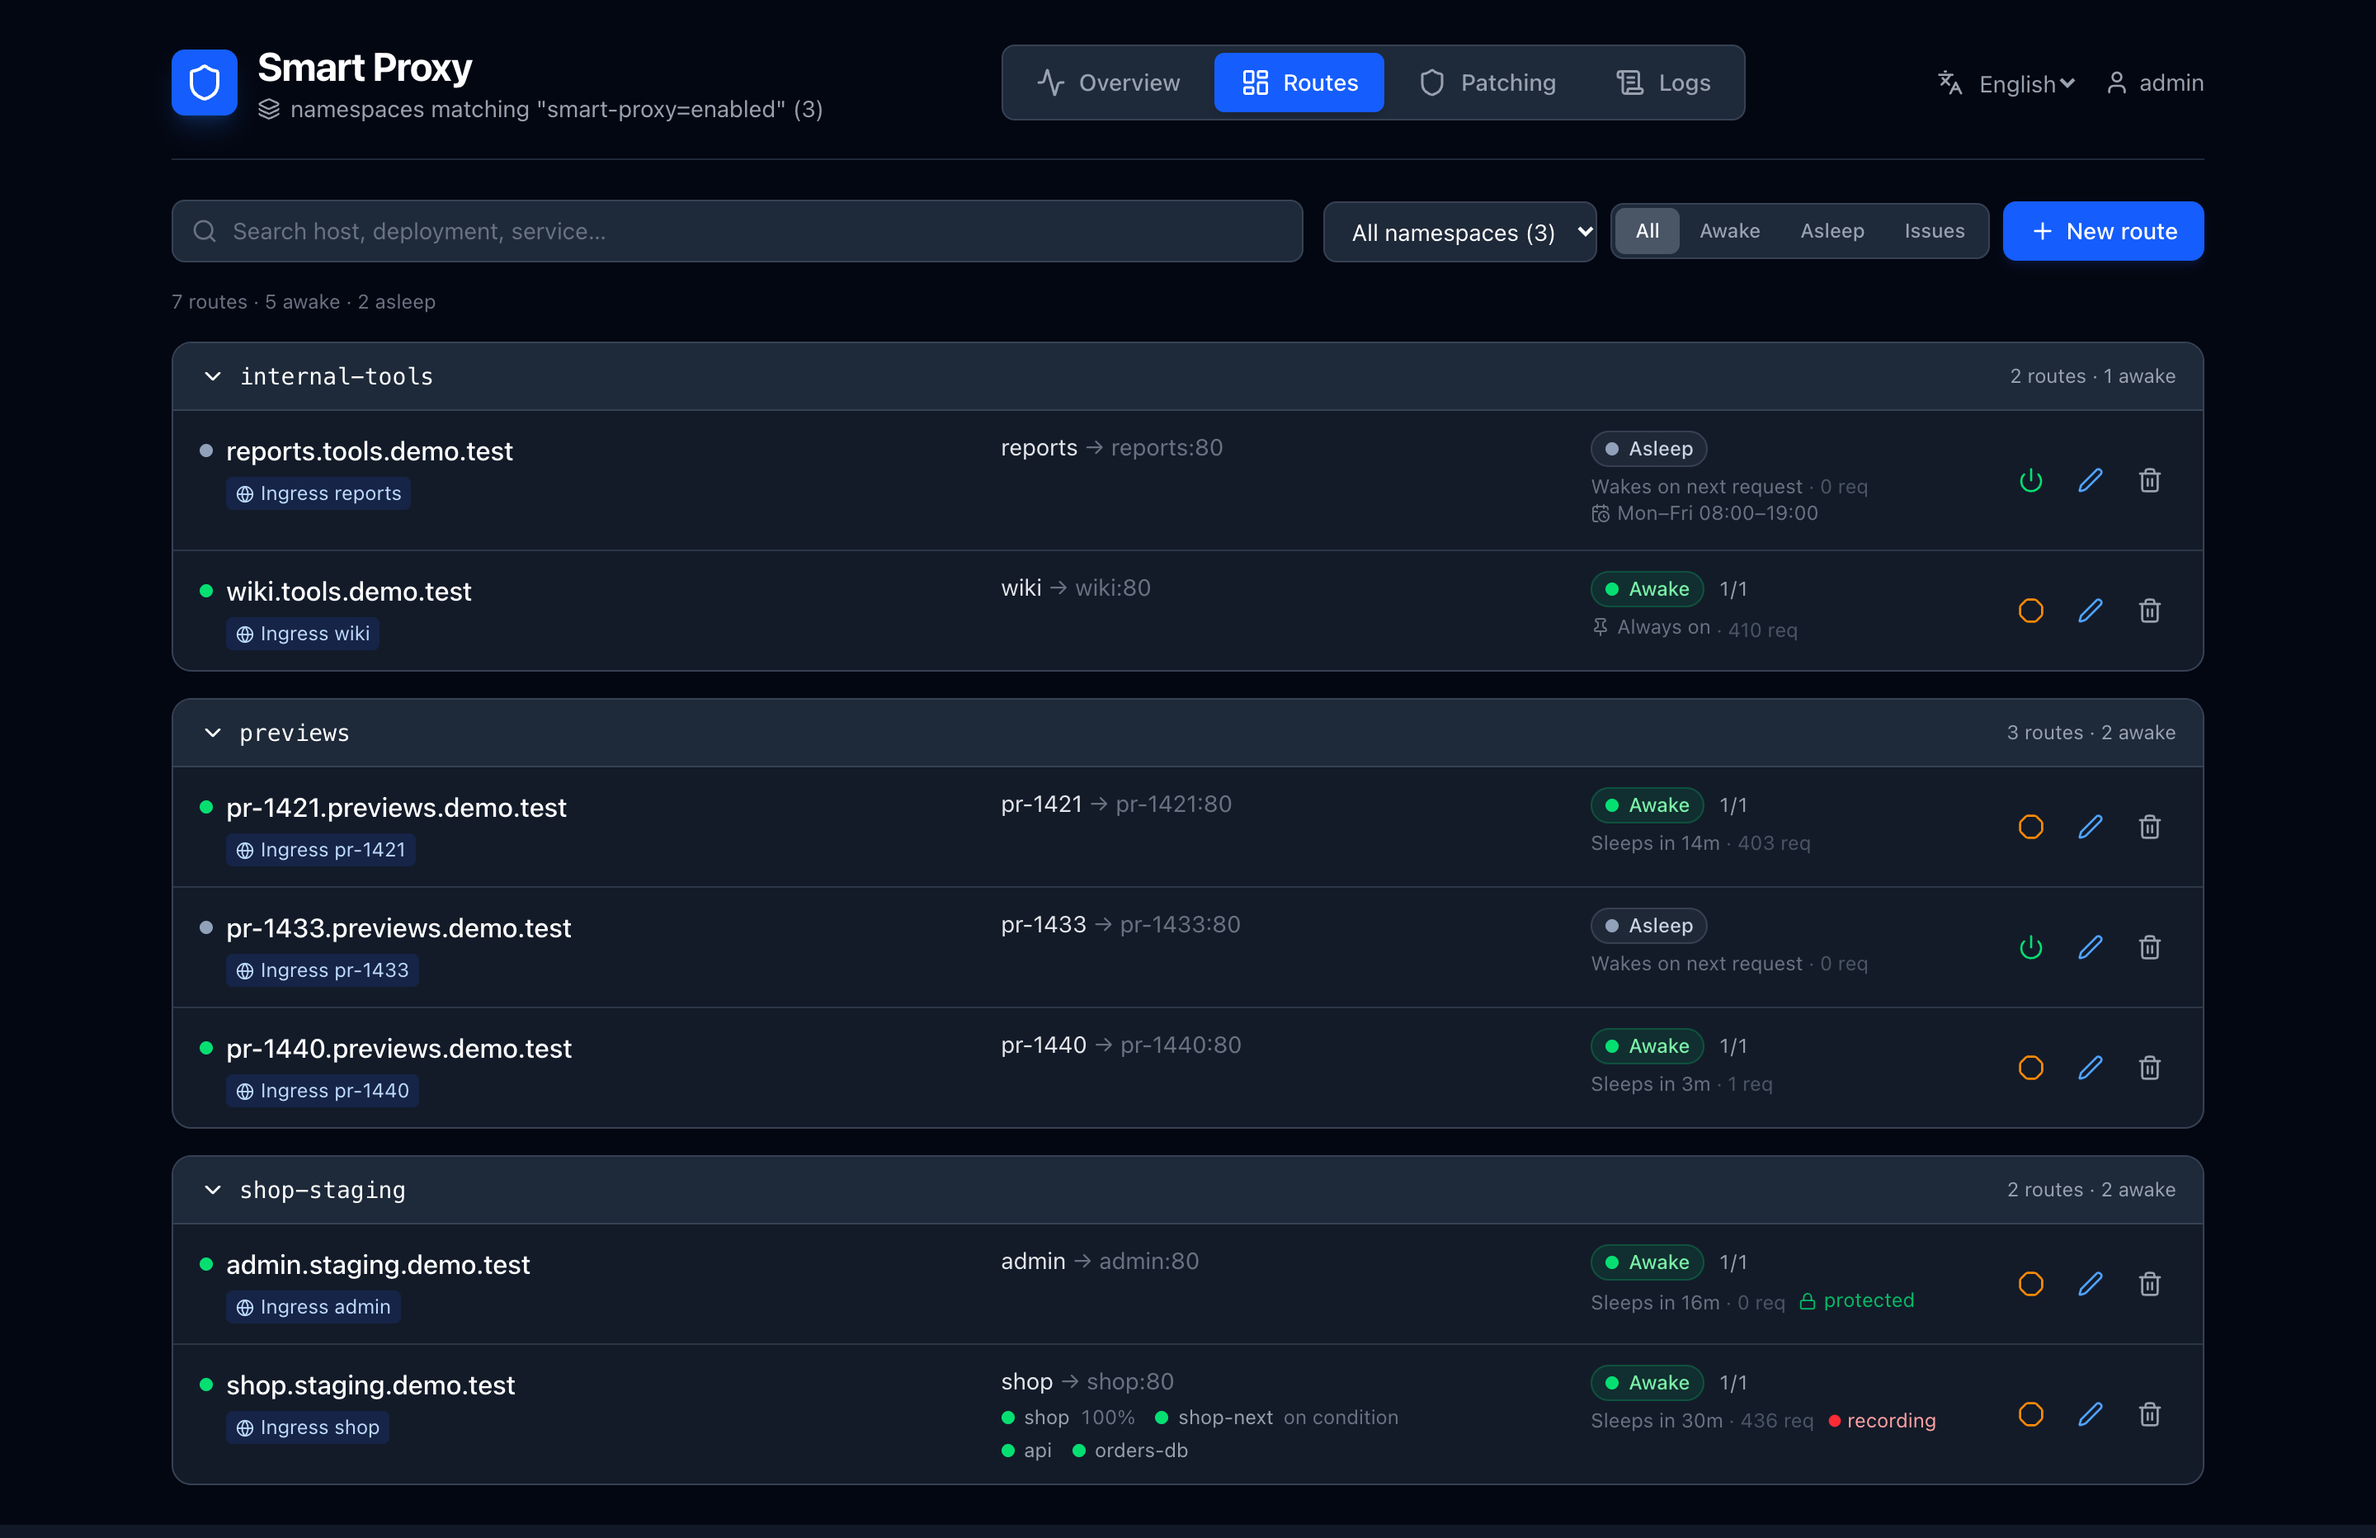
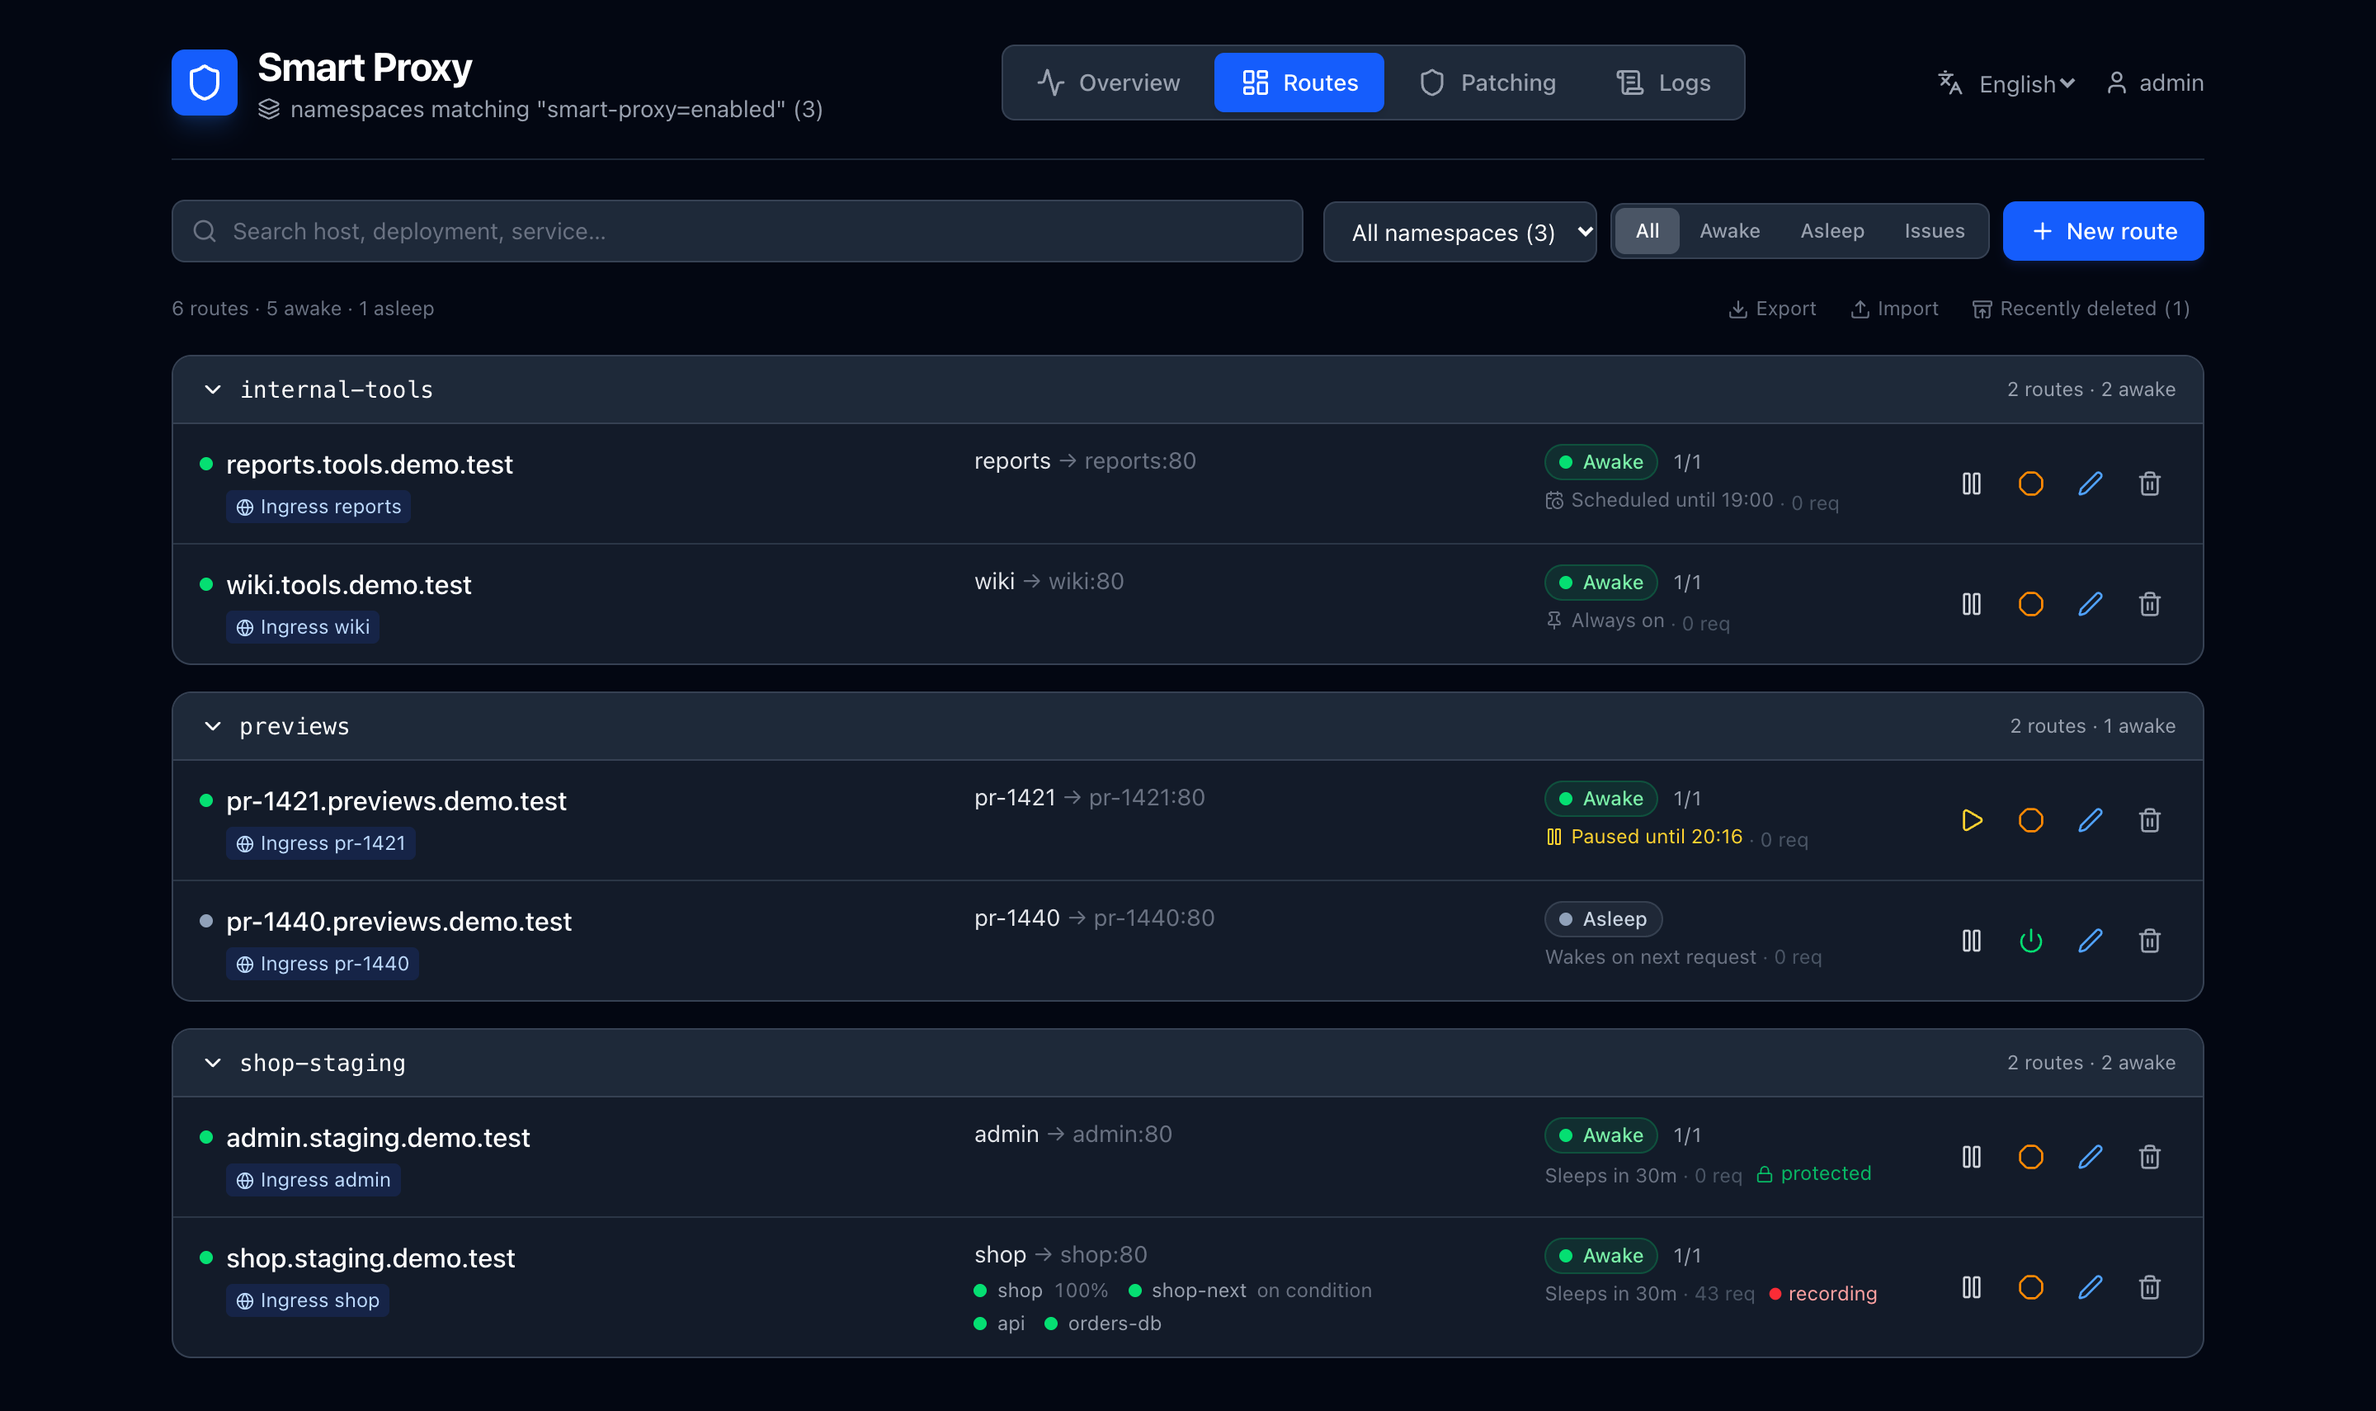
docs: pause, ignore rules, export/import and recently deleted, new screenshots

diff --git a/docs/routes.md b/docs/routes.md
@@ -1,6 +1,6 @@
 # Inspecting, routing and protecting routes
 
-Three optional tools on each route's page in the dashboard. A route that doesn't use them works exactly as before.
+Tools on each route's page in the dashboard. A route that doesn't use them works exactly as before.
 
 ## Requests: see what arrives
 
@@ -13,7 +13,17 @@ Three optional tools on each route's page in the dashboard. A route that doesn't
 
 Every replica records the requests it serves; the dashboard gathers them, whichever replica it talks to. Recordings are kept in memory (the latest 300 per route and replica).
 
-Use it to find what identifies a client before writing an [ignore rule](configuration.md) or a backend condition: from a recorded request, **Route like this…** next to a header turns it into a condition.
+Finding your way in the list:
+
+- **Search** with words: all must match (path, header, IP, status…); a word starting with `-` hides the requests containing it, e.g. `-/health`.
+- **Quick views**: all requests, *without ignored* (monitors and health checks hidden), *problems* (errors, refused requests, requests the app couldn't answer), *ignored only*; and one backend when the route has several.
+- **The list holds still** while a request is open: new requests are counted (*3 new requests*) and shown when you ask, so the request you are reading doesn't move away. **Pause** does the same without opening one.
+
+From a recorded request:
+
+- **Route like this…** next to a header turns it into a backend condition;
+- **Hide … here** hides the requests to that path from the list;
+- **Don't count as activity** adds an [ignore rule](#ignored-requests-monitors-and-health-checks) for its path, user agent or IP.
 
 ## Backends: send some requests elsewhere
 
@@ -41,6 +51,41 @@ The shop's API has a new version, and you want the beta of the mobile app to use
 Colleagues trying it from a browser open `https://<host>/__smart_proxy/use/shop-next` once, or get a `beta` cookie: add *cookie `beta` is present* as a second condition.
 
 The same works for anything a request carries: a tenant header, an office network (client IP), a new external provider calling back (its `Origin`), an `/api/v2` path.
+
+## Pause: just forward, for a while
+
+**Pause** on a route's page (or in the list of routes) turns Smart Proxy into a plain reverse proxy for that route: for 1 hour, 4 hours, until tomorrow morning, until a date and time, or until you resume it.
+
+- The application and its dependencies are woken at once, and nothing is put to sleep while the pause lasts.
+- Requests go to the route's main backend: no other backend, no condition, no pinned browser.
+- Monitors and health checks reach the application like anyone else; nothing is answered for it.
+- Sign-in, if the route requires it, stays on: a pause doesn't open an application to everyone.
+
+![Pausing a route: for 1 hour, 4 hours, until tomorrow morning, until a date, or until resumed](https://raw.githubusercontent.com/ivseb/smart-proxy/main/media/pause-dialog.png){ width="420" }
+
+The list shows the route as *Paused until 18:00*. When the pause ends the route is back to normal by itself, and its idle timeout starts then: it doesn't go to sleep the moment the pause ends. **Resume** ends it earlier. Pauses work for routes defined by annotations too.
+
+## Ignored requests: monitors and health checks
+
+Requests from uptime monitors and health checks shouldn't keep an application awake, nor wake it. The **Ignored requests** card on a route's page lists the rules that apply to it, each with how many requests it matched in the last 24 hours and when it last did — a rule that never matches is probably wrong, one that matches too much probably is too:
+
+- **Its own rules**, one per line, to add, change or remove: a path (exact, or a prefix ending with `*`), a user agent (contains, ignoring case), a client IP or CIDR, a method.
+- **Its workloads' probe paths** (from their Kubernetes probes), when called by something that isn't a browser.
+- **The global rules**: Smart Proxy's Helm values (`ignore.*`) and its list of known monitors.
+
+![A route's ignore rules, each with the requests it matched in the last 24 hours](https://raw.githubusercontent.com/ivseb/smart-proxy/main/media/route-ignored.png)
+
+Rules are also added from **Who keeps it awake** (*Ignore*) and from a recorded request (*Don't count as activity*), for the cases nothing detects by itself. While the application sleeps, matching requests get `200` from Smart Proxy, `503`, or wake it (the route's settings).
+
+## Export, import, restore
+
+- **Export** (above the list of routes, or on a route's page) downloads routes as a JSON file: all of them, or those you tick. Every setting is in it — dependencies, idle timeout, schedule, ignore rules, backends, access settings — but not the people and access tokens of protected routes. Routes defined by annotations are left out: they live in Git already.
+- **Import** reads such a file and first shows what each route would do: *new*, *changed* (and which settings), *unchanged*, or *can't import* (its namespace isn't managed, another route serves the same host and path, invalid settings). Nothing changes until you confirm; imported routes patch their Ingresses/Routes as when they are saved. Protected routes come without people or tokens: until you add some, nobody gets in.
+![Importing routes: what each one would do before anything changes](https://raw.githubusercontent.com/ivseb/smart-proxy/main/media/import-preview.png){ width="640" }
+
+- **Recently deleted** keeps deleted routes for 30 days (the latest 50), with all their settings, people and tokens included. **Restore** puts a route back and points its Ingresses/Routes at Smart Proxy again. They are kept in the ConfigMap `<release>-deleted-routes`, removed with Smart Proxy.
+
+![Recently deleted routes, ready to be restored](https://raw.githubusercontent.com/ivseb/smart-proxy/main/media/recently-deleted.png){ width="640" }
 
 ## Access: require sign-in or a token
 

diff --git a/README.md b/README.md
@@ -31,7 +31,9 @@ Idle environments burn money. Preview, dev, staging and demo namespaces sit runn
 | :--- | :--- |
 | 💤 **Auto-sleep & instant wake** | Scale idle deployments to zero; the next request transparently wakes them back up. |
 | 🔗 **Dependency chains** | Keep `app → api → db` awake together, optionally starting them in order, and let them sleep together. |
-| 🩺 **Monitor-aware** | Uptime monitors and health checks never keep apps awake or wake them; they get a 200 while apps sleep. See who keeps an app awake and ignore it in one click. |
+| 🩺 **Monitor-aware** | Uptime monitors and health checks never keep apps awake or wake them; they get a 200 while apps sleep. See who keeps an app awake, ignore it in one click, and how often each rule matches. |
+| ⏸ **Pause** | Turn a route into a plain reverse proxy for an hour, until tomorrow, or until you resume it — the app stays up meanwhile. |
+| 💾 **Export, import, restore** | Download routes as a file and import them back, with a preview of what changes; deleted routes stay restorable for 30 days. |
 | 🔍 **Requests inspector** | Record what reaches a route for a few minutes: headers (credentials masked), cookies, and what Smart Proxy did with each request. |
 | 🧪 **Try a new version with some users** | Send requests matching a condition (a header, cookie, path, client IP…) to another backend and keep those users there — e.g. the beta of your mobile app on the next version of the API. |
 | 🔒 **Built-in sign-in** | Put any app behind a sign-in page or access tokens, without an identity provider and without touching the app. |
@@ -58,7 +60,7 @@ The dashboard, the "waking up" page and the sign-in page speak **English and Ita
 
 ## 🧰 More than sleeping
 
-Three optional tools on each route's page — routes that don't use them work as before. [Read more →](docs/routes.md)
+Optional tools on each route's page — routes that don't use them work as before. [Read more →](docs/routes.md)
 
 **See what arrives.** Record a route's requests for a few minutes: who sends them, their headers (credentials masked), and what Smart Proxy did with each — answered by the app, woke it first, showed the waking page, which backend got it and why.
 
@@ -73,6 +75,13 @@ Three optional tools on each route's page — routes that don't use them work as
 <p>
   <img src="media/route-access.png" alt="Access settings of a route: people who can sign in, access tokens, paths open without signing in" width="560"/>
   <img src="media/sign-in.png" alt="Sign-in page served by Smart Proxy on the application's address" width="250"/>
+</p>
+
+**Day to day.** Pause a route for an hour or until tomorrow — Smart Proxy then only forwards its requests. Keep the rules that hide monitors and health checks in a list, each with how often it matched. Export routes to a file, import them back with a preview of what changes, and restore deleted ones for 30 days.
+
+<p>
+  <img src="media/route-ignored.png" alt="A route's ignore rules, each with the requests it matched in the last 24 hours" width="560"/>
+  <img src="media/pause-dialog.png" alt="Pausing a route for a while" width="250"/>
 </p>
 
 ## 🎬 How it works

diff --git a/docs/index.md b/docs/index.md
@@ -111,7 +111,7 @@ flowchart LR
 
 ## More than sleeping
 
-Three optional tools on each route's page: see what arrives, send some requests to another version, require sign-in.
+Tools on each route's page: see what arrives, send some requests to another version, require sign-in, pause it, back it up and restore it.
 
 <p align="center">
   <img src="https://raw.githubusercontent.com/ivseb/smart-proxy/main/media/route-requests.png" alt="Requests recorded for a route" width="820"/>

diff --git a/docs/upgrading.md b/docs/upgrading.md
@@ -1,5 +1,9 @@
 # Upgrading
 
+## From 2.3 to 2.4
+
+A drop-in upgrade with the chart (`helm upgrade … --version 0.6.0 -f my-values.yaml`): no new permission, nothing changes for existing routes. Deleted routes are now kept for 30 days in a new ConfigMap, `<release>-deleted-routes` (removed with Smart Proxy).
+
 ## From 2.2 to 2.3
 
 A drop-in upgrade with the chart (`helm upgrade … --version 0.5.1 -f my-values.yaml`). Nothing changes for existing routes. To know:
